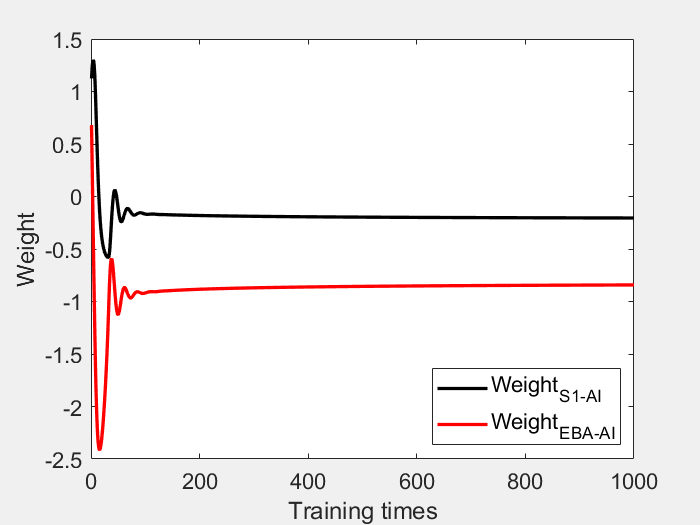
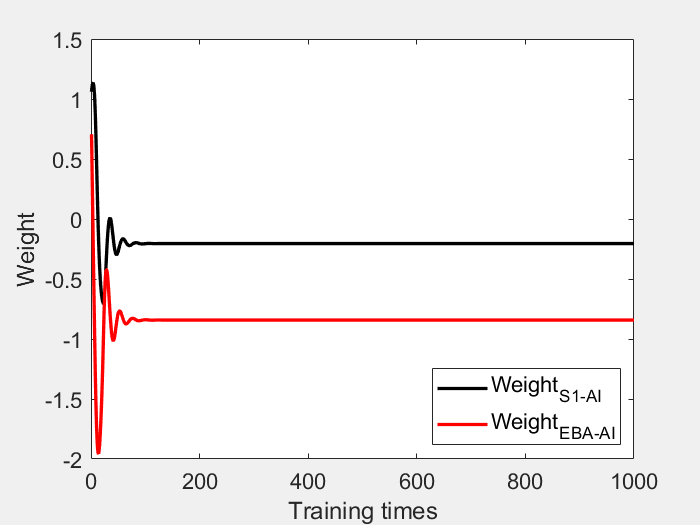
Add files via upload

Changed region(s): [[0.06, 0.1219, 0.9, 0.8533], [0.06, 0.8533, 0.12, 0.8838]]

diff --git a/Train_Batch.m b/Train_Batch.m
@@ -19,8 +19,8 @@ Weight = Opts.Weight;
 if k == 1
     W_M1_S1 = zeros(N,1) + Weight; 
     W_V_EBA = zeros(N,1) + Weight;
-    W_S1_TPJ = zeros(N,1) + Weight;
-    W_EBA_TPJ = zeros(N,1) + Weight;
+    W_S1_TPJ = zeros(N,1) + Weight*150;
+    W_EBA_TPJ = zeros(N,1) + Weight*150;
     W_TPJ_AI = zeros(N,1) + Weight;
     W_S1_AI = zeros(N,1) + Weight;
     W_EBA_AI = zeros(N,1) + Weight;
@@ -38,8 +38,8 @@ Motion_End = Motion_Start + ContinueTime;
 Vision_Start = Motion_End + DealyTime;
 Vision_End = Vision_Start + ContinueTime;
 
-List_W_S1_TPJ = [];
-List_W_EBA_TPJ = [];
+List_W_S1_AI = [];
+List_W_EBA_AI = [];
 
 for i = 1:MoveNum
     V_M1 = zeros(N,1);
@@ -81,7 +81,6 @@ for i = 1:MoveNum
         S_S1_n(V_S1_n < fire_threshold) = 0; 
         if sum(S_S1_n) > 0       
             Fired_S1 = Fired_S1 + 1; 
-            W_LatInh_S1_TPJ = tanh(W_LatInh_S1_TPJ - 2 * acos(S_S1_n) / pi .* exp(Fired_S1) - 1) + 1;  
             W_LatInh_S1_AI = tanh(W_LatInh_S1_AI - 2 * acos(S_S1_n) .* exp(Fired_S1) - 1) + 1;
         end        
         
@@ -92,7 +91,6 @@ for i = 1:MoveNum
         S_EBA_n(V_EBA_n < fire_threshold) = 0; 
         if sum(S_EBA_n) > 0  
             Fired_EBA = Fired_EBA + 1;
-            W_LatInh_EBA_TPJ = tanh(W_LatInh_EBA_TPJ - 2 * acos(S_EBA_n) / pi .* exp(Fired_EBA) - 1) + 1;
             W_LatInh_EBA_AI = tanh(W_LatInh_EBA_AI - 2 * acos(S_EBA_n) / pi .* exp(Fired_EBA) - 1) + 1;
         end
       
@@ -100,25 +98,11 @@ for i = 1:MoveNum
         V_TPJ_Input = [V_S1_n, V_EBA_n];
         W_TPJ_Input = [W_S1_TPJ, W_EBA_TPJ];
         V_TPJ_n = Neuron_Post(V_TPJ, V_TPJ_Input, W_TPJ_Input, C_TPJ);         
-        S_TPJ_n = V_TPJ_n;
-        S_TPJ_n(V_TPJ_n >= fire_threshold) = 1; 
-        S_TPJ_n(V_TPJ_n < fire_threshold) = 0;
-        
-        % Update weights
-        % S1 -> TPJ    dW_S1_TPJ
-        ddW_S1_TPJ = DeltaWeight(V_S1, V_S1_n, V_TPJ, V_TPJ_n, alpha, beta ,gamma);
-        dW_S1_TPJ = dW_S1_TPJ + ddW_S1_TPJ; 
-        % EBA -> TPJ   dW_EBA_TPJ  
-        ddW_EBA_TPJ = DeltaWeight(V_S1, V_S1_n, V_TPJ, V_TPJ_n, alpha, beta ,gamma);
-        dW_EBA_TPJ = dW_EBA_TPJ + ddW_EBA_TPJ;
             
         % S1 & TPJ & EBA -> AI
         V_AI_Input = [V_S1_n, V_TPJ_n, V_EBA_n];
         W_AI_Input = [W_S1_AI, W_TPJ_AI, W_EBA_AI]; 
-        V_AI_n = Neuron_Post(V_AI, V_AI_Input, W_AI_Input, C_AI); 
-        S_AI_n = V_AI_n;
-        S_AI_n(V_AI_n >= fire_threshold) = 1; 
-        S_AI_n(V_AI_n < fire_threshold) = 0;    
+        V_AI_n = Neuron_Post(V_AI, V_AI_Input, W_AI_Input, C_AI);   
         
         % Update weights
         % S1 -> AI   dW_S1_AI
@@ -135,21 +119,19 @@ for i = 1:MoveNum
         V_TPJ = V_TPJ_n;
         V_AI = V_AI_n;       
     end    
-
-    W_S1_TPJ = W_S1_TPJ + dW_S1_TPJ.*W_LatInh_S1_TPJ ; % S1 -> TPJ
-    W_EBA_TPJ = W_EBA_TPJ + dW_EBA_TPJ.*W_LatInh_EBA_TPJ ; % EBA -> TPJ 
+    
     W_S1_AI = W_S1_AI + dW_S1_AI.*W_LatInh_S1_AI ; % S1 -> AI
     W_EBA_AI = W_EBA_AI + dW_EBA_AI.*W_LatInh_EBA_AI ; % EBA -> AI 
       
-    List_W_S1_TPJ = [List_W_S1_TPJ, W_S1_AI];
-    List_W_EBA_TPJ = [List_W_EBA_TPJ, W_EBA_AI];
+    List_W_S1_AI = [List_W_S1_AI, W_S1_AI];
+    List_W_EBA_AI = [List_W_EBA_AI, W_EBA_AI];
 end
 
 if k == 1
     figure;
-    L1 = plot((1:MoveNum),List_W_S1_TPJ(k,:),'linewidth',2,'color','k')
+    L1 = plot((1:MoveNum),List_W_S1_AI(k,:),'linewidth',2,'color','k')
     hold on;
-    L2 = plot((1:MoveNum),List_W_EBA_TPJ(k,:),'linewidth',2,'color','r')
+    L2 = plot((1:MoveNum),List_W_EBA_AI(k,:),'linewidth',2,'color','r')
     xlabel('Training times','fontsize',14);
     ylabel('Weight','fontsize',14);
     set(gca,'fontsize',13)

diff --git a/Train.m b/Train.m
@@ -2,8 +2,26 @@ clear;clc;
 
 load('Coding.mat')
 N = size(Coding,2);
-for k = 1:N
-    disp(k);
+
+TrickID = 1;
+if TrickID == 0
+    for k = 1:N
+        disp(k);
+        DealyTime = 0;
+        Train_Batch(k, Coding, DealyTime);
+    end
+else
+    k = 1;
     DealyTime = 0;
     Train_Batch(k, Coding, DealyTime);
+    load('Train.mat')
+    W_M1_S1 = repmat(W_M1_S1(1),N,1);  
+    W_V_EBA = repmat(W_V_EBA(1),N,1);  
+    W_S1_TPJ = repmat(W_S1_TPJ(1),N,1); 
+    W_EBA_TPJ = repmat(W_EBA_TPJ(1),N,1);  
+    W_TPJ_AI = repmat(W_TPJ_AI(1),N,1);  
+    W_S1_AI = repmat(W_S1_AI(1),N,1);  
+    W_EBA_AI = repmat(W_EBA_AI(1),N,1); 
+    matname = 'Train.mat';                
+    save(matname, 'W_M1_S1', 'W_V_EBA', 'W_S1_TPJ', 'W_EBA_TPJ', 'W_TPJ_AI', 'W_S1_AI', 'W_EBA_AI')
 end
